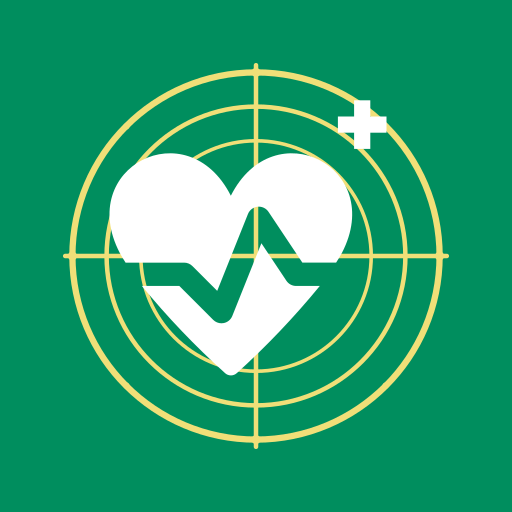
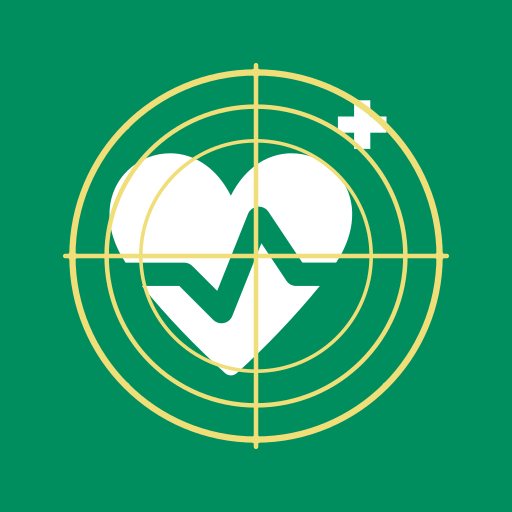
Layer reticle over AEDjaeger heart and plus

diff --git a/CHANGELOG.md b/CHANGELOG.md
@@ -13,7 +13,7 @@ Alle relevanten Änderungen an AEDjaeger werden hier nachvollziehbar festgehalte
 - Automatisierte axe-Prüfungen für Start-, Foto-, Karten-, Such-, Vorschau- und Fehlerzustände sowie ein WebKit/iPhone-14-Projekt in der E2E-Suite. Die manuelle VoiceOver-/TalkBack-Abnahme ist dokumentiert und bleibt offen.
 
 ### Changed
-- PWA-Homescreen-Symbole für iOS und Android zeigen das weiße medizinische Plus mit Abstand zum Herz. Fadenkreuz und Ringe liegen hinter den weißen Zeichen; ein entfernter Leuchteffekt sorgt für gleichmäßiges Signalgrün (digitale Annäherung an RAL 6032, `#008E5E`).
+- PWA-Homescreen-Symbole für iOS und Android zeigen das weiße medizinische Plus mit Abstand zum Herz. Herz und Plus liegen auf derselben Ebene unter Fadenkreuz und Ringen; ein entfernter Leuchteffekt sorgt für gleichmäßiges Signalgrün (digitale Annäherung an RAL 6032, `#008E5E`).
 - Kartenbedienung per Zwei-Finger-Zoom sowie Plus-/Minus-Tasten ergänzt; Kartenrollen nennen jetzt zugängliche Kurzhinweise. Kleine Texte nutzen skalierbare `rem`-Größen mit mindestens 12 px.
 - Verbindungsstatus zeigt Haken oder Strich zusätzlich zur Farbe. Info-, Schließen-, Konto- und Kartenzoom-Schaltflächen bieten mindestens 44 px Tippfläche.
 
